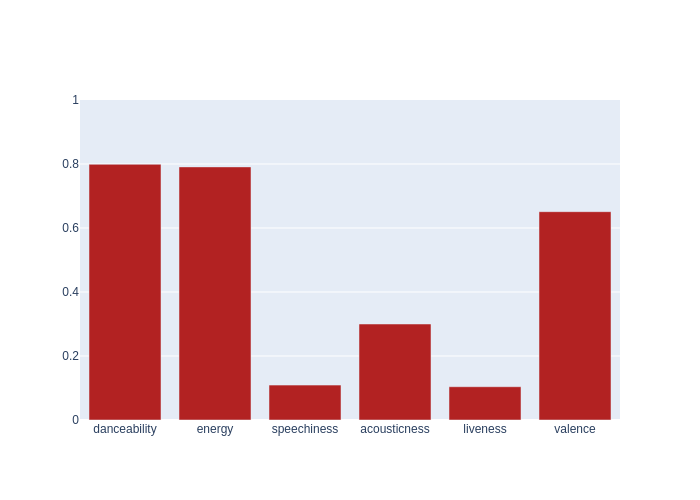
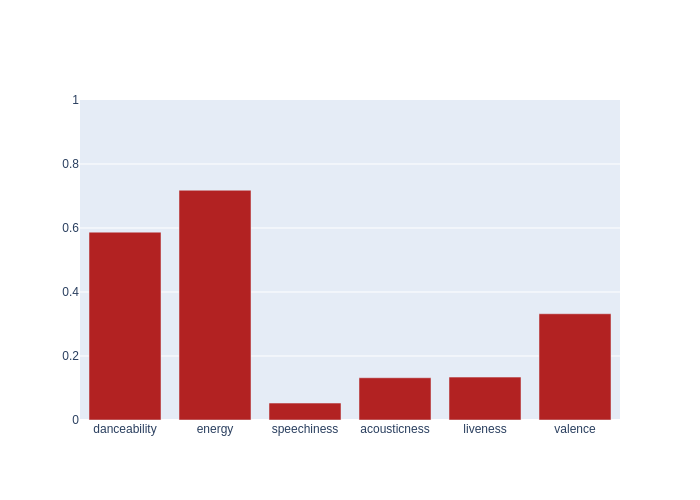
Automated README update

diff --git a/README.md b/README.md
@@ -4,7 +4,7 @@ Automated music metrics for fun, updated hourly.
 
 ## Spotify
 
-- currently listening to **Louis The Child - So What (feat. A R I Z O N A)**
+- currently listening to **alt-J - U&ME**
 
 - **931** liked songs
 - **157** playlists
